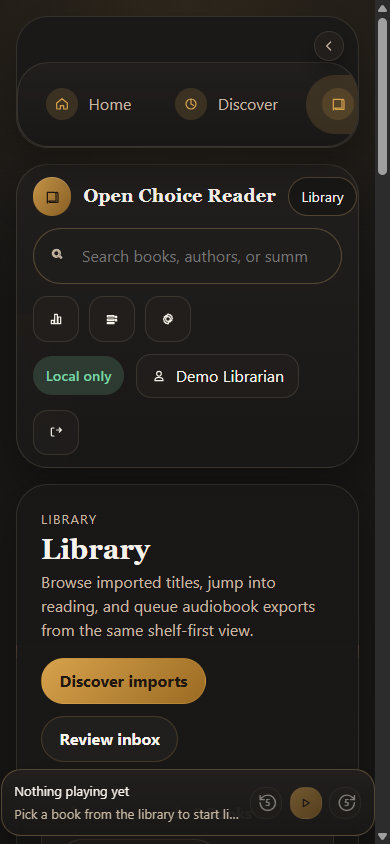
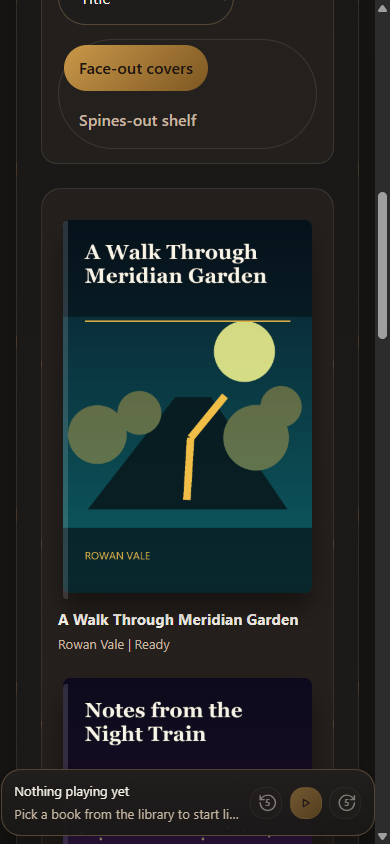
Fix imported metadata and cover presentation

diff --git a/frontend/src/styles/app.css b/frontend/src/styles/app.css
@@ -1049,8 +1049,9 @@ textarea:focus-visible {
 
 .library-cover-tile__cover {
   width: 100%;
-  aspect-ratio: 0.78;
-  object-fit: cover;
+  aspect-ratio: 2 / 3;
+  object-fit: contain;
+  background: var(--surface-neutral-soft);
   border-radius: 0.45rem;
   box-shadow: 0 16px 26px rgba(0, 0, 0, 0.35);
   transform-origin: center bottom;
@@ -1240,8 +1241,9 @@ textarea:focus-visible {
 
 .library-spotlight__cover {
   width: 100%;
-  aspect-ratio: 0.78;
-  object-fit: cover;
+  aspect-ratio: 2 / 3;
+  object-fit: contain;
+  background: var(--surface-neutral-soft);
   border-radius: 0.85rem;
   box-shadow: 0 18px 32px rgba(0, 0, 0, 0.28);
 }
@@ -1299,8 +1301,8 @@ textarea:focus-visible {
 
 .book-card__cover {
   width: 100%;
-  aspect-ratio: 3 / 4;
-  object-fit: cover;
+  aspect-ratio: 2 / 3;
+  object-fit: contain;
   border-radius: 1.1rem;
   background: rgba(255, 255, 255, 0.04);
   box-shadow: 0 18px 30px rgba(0, 0, 0, 0.22);
@@ -2023,8 +2025,8 @@ textarea:focus-visible {
 .discover-page__result-cover {
   width: 100%;
   max-width: 10rem;
-  aspect-ratio: 0.75;
-  object-fit: cover;
+  aspect-ratio: 2 / 3;
+  object-fit: contain;
   border-radius: 0.85rem;
   background: var(--surface-neutral-soft);
   box-shadow: 0 12px 20px rgba(0, 0, 0, 0.22);
@@ -2076,8 +2078,8 @@ textarea:focus-visible {
 
 .book-hero__cover {
   width: 100%;
-  aspect-ratio: 3 / 4;
-  object-fit: cover;
+  aspect-ratio: 2 / 3;
+  object-fit: contain;
   border-radius: 1.25rem;
   background: var(--surface-neutral-soft);
   box-shadow: 0 20px 35px rgba(0, 0, 0, 0.28);
@@ -2588,7 +2590,8 @@ textarea:focus-visible {
   width: 4.2rem;
   height: 4.2rem;
   border-radius: 0.9rem;
-  object-fit: cover;
+  object-fit: contain;
+  background: var(--surface-neutral-soft);
   box-shadow: 0 12px 20px rgba(0, 0, 0, 0.28);
 }
 

diff --git a/backend/app/services/book_metadata.py b/backend/app/services/book_metadata.py
@@ -11,7 +11,15 @@ from app.parsers.base import ParsedDocument
 from app.services.remote_fetch import fetch_remote_resource
 
 
-GUTENBERG_ID_PATTERN = re.compile(r"(?:^|[^0-9])(?:pg|gutenberg[-_])?(\d{1,6})(?:[-_](?:images|noimages|0))?(?=\.|[^0-9]|$)", re.IGNORECASE)
+GUTENBERG_PREFIXED_ID_PATTERN = re.compile(
+    r"(?:^|[^a-z0-9])(?:pg|gutenberg[-_])(\d{1,6})"
+    r"(?:[-_](?:images|noimages|0))?(?=\.|[^0-9]|$)",
+    re.IGNORECASE,
+)
+GUTENBERG_NUMERIC_FILENAME_PATTERN = re.compile(
+    r"^(\d{1,6})(?:[-_](?:images|noimages|0))?(?:\.[a-z0-9]+)*$",
+    re.IGNORECASE,
+)
 TOP_ENTRY_PATTERN = re.compile(r"<li>\s*<a href=\"/ebooks/(?P<book_id>\d+)\">(?P<label>[^<]+)</a>", re.IGNORECASE)
 DOWNLOAD_LINK_PATTERN = re.compile(r"href=\"(?P<href>[^\"]+)\"[^>]*type=\"(?P<media_type>[^\"]+)\"", re.IGNORECASE)
 
@@ -162,21 +170,32 @@ def resolve_external_metadata(
 
 
 def detect_gutenberg_id(*, filename: Path, origin_path: Path | None, title: str | None) -> int | None:
-    for candidate in (
+    filename_candidates = (
         filename.name,
         filename.stem,
-        str(origin_path) if origin_path is not None else None,
-        title,
-    ):
+        origin_path.name if origin_path is not None else None,
+        origin_path.stem if origin_path is not None else None,
+    )
+    for candidate in filename_candidates:
         if not candidate:
             continue
-        match = GUTENBERG_ID_PATTERN.search(str(candidate))
+        match = GUTENBERG_PREFIXED_ID_PATTERN.search(str(candidate))
+        if match is None:
+            match = GUTENBERG_NUMERIC_FILENAME_PATTERN.fullmatch(str(candidate))
         if match is None:
             continue
         try:
             return int(match.group(1))
         except ValueError:
             continue
+
+    if title:
+        match = GUTENBERG_PREFIXED_ID_PATTERN.search(title)
+        if match is not None:
+            try:
+                return int(match.group(1))
+            except ValueError:
+                pass
     return None
 
 

diff --git a/backend/tests/test_book_metadata.py b/backend/tests/test_book_metadata.py
@@ -82,6 +82,30 @@ def test_enrich_parsed_document_uses_exact_gutendex_match_for_gutenberg_filename
     assert resolution.metadata_source_id == "84"
 
 
+def test_gutenberg_detection_ignores_unrelated_numbers_in_parent_directories() -> None:
+    assert (
+        book_metadata.detect_gutenberg_id(
+            filename=Path("night-train.epub"),
+            origin_path=Path("data/users/1/source/night-train.epub"),
+            title="Notes from the Night Train",
+        )
+        is None
+    )
+
+
+def test_gutenberg_detection_accepts_explicit_and_numeric_filenames() -> None:
+    assert book_metadata.detect_gutenberg_id(
+        filename=Path("gutenberg-84-frankenstein.epub"),
+        origin_path=None,
+        title=None,
+    ) == 84
+    assert book_metadata.detect_gutenberg_id(
+        filename=Path("1342-0.txt"),
+        origin_path=None,
+        title=None,
+    ) == 1342
+
+
 def test_enrich_parsed_document_falls_back_to_open_library_then_gutendex(monkeypatch) -> None:
     monkeypatch.setattr(book_metadata.settings, "metadata_enrichment_enabled", True)
     monkeypatch.setattr(
